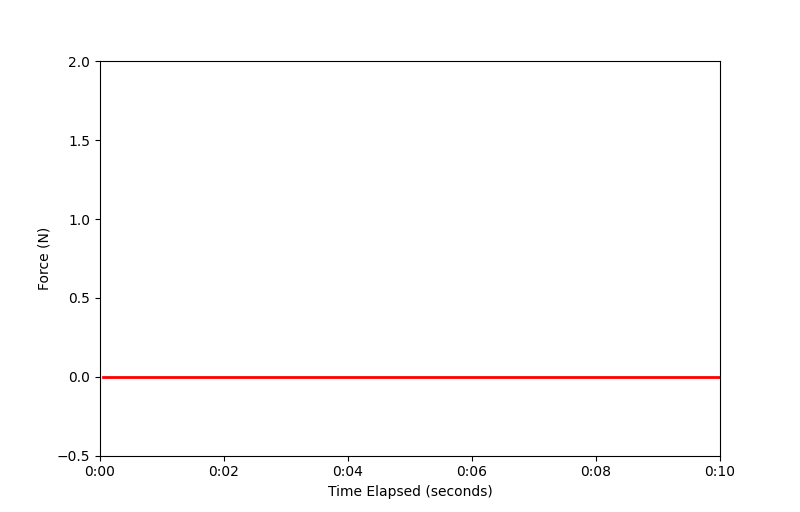
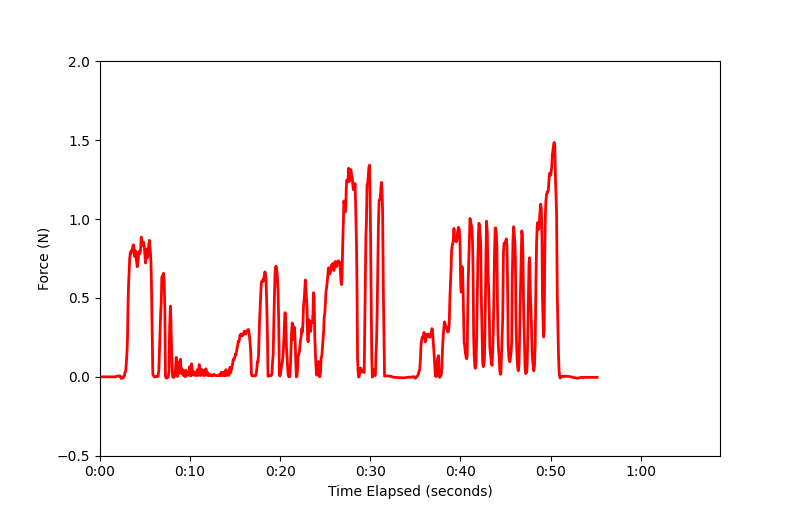
Verified Shear testing is possible

diff --git a/shear_window.py b/shear_window.py
@@ -10,7 +10,7 @@ from matplotlib.animation import FuncAnimation
 import numpy as np
 import time
 from datetime import datetime
-#from futek_cli import FUTEKDeviceCLI
+from futek_cli import FUTEKDeviceCLI
 from pathlib import Path
 import xlsxwriter
 """
@@ -30,7 +30,8 @@ class ShearWindow(tk.Toplevel):
         self.ax = self.fig.add_subplot(111)
         self.line, = self.ax.plot([], [], 'r-', lw=2)
         self.ax.set_xlim(left=0, right=10)  # Set initial right limit, will autoscale
-        self.ax.set_ylim(-0.5, 2)
+        self.curr_xlim = 2
+        self.ax.set_ylim(-0.5, self.curr_xlim)
         self.ax.set_xlabel("Time Elapsed (seconds)")
         self.ax.set_ylabel("Force (N)")
         
@@ -61,9 +62,9 @@ class ShearWindow(tk.Toplevel):
 
 
         # Initialize Load Cell and read initial values
-        #self.futek = FUTEKDeviceCLI()
-        reading_force = 0 #self.futek.getNormalData() 
-        reading_force = reading_force * (-4.44822) # convert pounds to Newtons and change polarity
+        self.futek = FUTEKDeviceCLI()
+        reading_force = self.futek.getNormalData() 
+        #reading_force = reading_force * (-4.44822) # convert pounds to Newtons and change polarity
         self.init_val = reading_force 
         self.init_force = 0
         self.force_readings = []
@@ -93,7 +94,7 @@ class ShearWindow(tk.Toplevel):
         elapsed_time = (current_time - self.init_time).total_seconds()
         self.time_readings.append(elapsed_time)
         # Read force values on load cell
-        reading_force = 0#self.futek.getNormalData() 
+        reading_force = self.futek.getNormalData() 
        #reading_force = reading_force * (-4.44822) # convert pounds to Newtons and change polarity
         stage_force = reading_force - self.init_val
 
@@ -105,8 +106,9 @@ class ShearWindow(tk.Toplevel):
         self.line.set_data(self.time_readings, self.force_readings)
         
         # Recalculate data limits and autoscale
-        self.ax.relim()
-        self.ax.autoscale_view(scalex=True, scaley=True)
+        self.curr_xlim += 0.07
+        self.ax.set_xlim(0, self.curr_xlim)
+        #self.ax.autoscale_view(scalex=True, scaley=True)
 
         return self.line,
 
@@ -140,8 +142,8 @@ class ShearWindow(tk.Toplevel):
     def on_close(self):
         print("saving and closing")
         self.save()
-       # self.futek.stop()
-       # self.futek.exit()
+        self.futek.stop()
+        self.futek.exit()
         self.main_window._end_testing()
         self.anim.event_source.stop()
         self.destroy()
